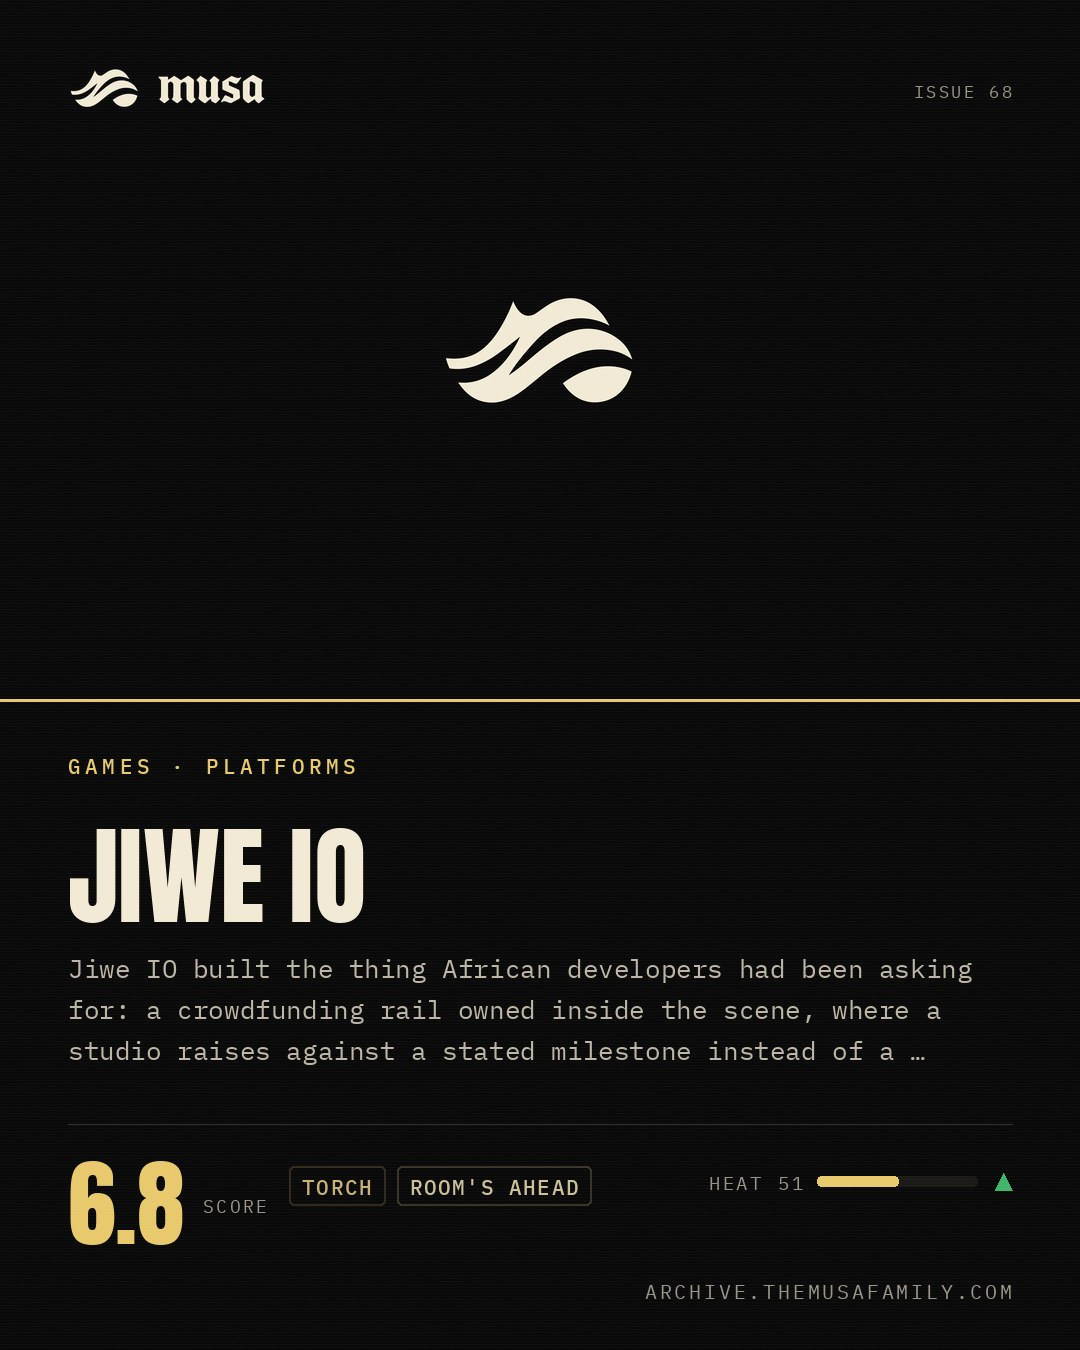
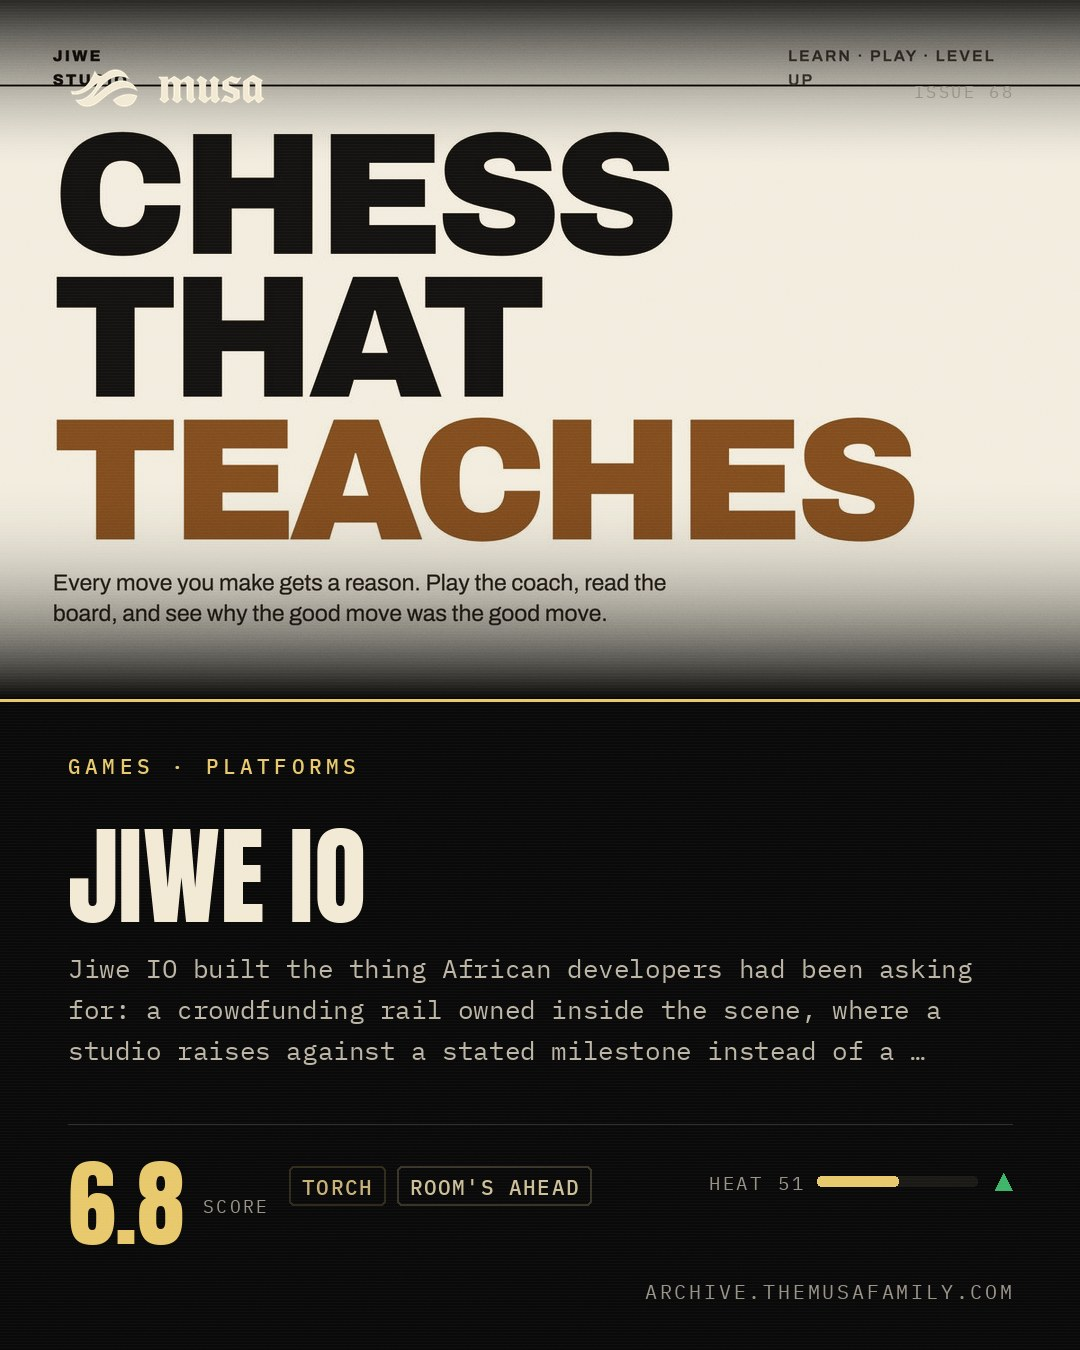
Cache entry art and rebuild cards [auto]

diff --git a/i/elucid-i-guess-u-had-to-be-there/index.html b/i/elucid-i-guess-u-had-to-be-there/index.html
@@ -131,7 +131,7 @@ footer b{font-family:var(--mono);font-size:9px;color:#b8b09c;letter-spacing:.2em
 </header>
 <div class="eyebrow">ISSUE 67 &nbsp;·&nbsp; <span class="a">AUG 26 2026</span> &nbsp;·&nbsp; MUSIC · UNDERGROUND RAP</div>
 <h1>ELUCID — I Guess U Had to Be There</h1>
-<figure class="art"><img src="https://archive.themusafamily.com/img/musa-mark.png" alt="ELUCID — I Guess U Had to Be There" loading="lazy" style="height:320px;object-fit:contain;background:#0a0a0a" onerror="this.onerror=null;this.src='https://archive.themusafamily.com/img/musa-mark.png';this.style.objectFit='contain';this.style.background='#0a0a0a'"></figure>
+<figure class="art"><img src="https://cdn.shopify.com/s/files/1/2276/3279/files/Elucid_AlexanderRichter_Sept4th_21_1000x1000-495x495_large.jpg?v=1502912025" alt="ELUCID — I Guess U Had to Be There" loading="lazy" onerror="this.onerror=null;this.src='https://archive.themusafamily.com/img/musa-mark.png';this.style.objectFit='contain';this.style.background='#0a0a0a'"></figure>
 <div class="read">The lead single is the argument. &quot;First Light&quot; is handclaps and almost no instrumentation, which leaves nothing between the listener and the voice — a subtraction most rappers cannot survive. The album runs thirty-two minutes, produced entirely by the Swiss beatmaker Sebb Bash, and came out March 13 on Backwoodz Studioz with Mattie, Estee Nack, Shabaka Hutchings, billy woods and Breeze Brewin passing through. It scored 80 on Metacritic and a nine from Clash. ELUCID was born in Queens, raised on Long Island, and has spent a decade as half of Armand Hammer alongside woods; the deluxe vinyl carries the 48 Hrs EP as a second disc. He toured solo in spring and is out with Armand Hammer this fall. Backwoodz remains the model here — an artist-run label pressing its own vinyl, which is why the catalog holds its value while the co-sign economy churns.</div>
 <div class="rail">
   <span class="sc">8.3<small>SCORE</small></span>

diff --git a/i/deana-lawson/index.html b/i/deana-lawson/index.html
@@ -131,7 +131,7 @@ footer b{font-family:var(--mono);font-size:9px;color:#b8b09c;letter-spacing:.2em
 </header>
 <div class="eyebrow">ISSUE 67 &nbsp;·&nbsp; <span class="a">AUG 26 2026</span> &nbsp;·&nbsp; ART · PHOTOGRAPHY</div>
 <h1>Deana Lawson</h1>
-<figure class="art"><img src="https://archive.themusafamily.com/img/musa-mark.png" alt="Deana Lawson" loading="lazy" style="height:320px;object-fit:contain;background:#0a0a0a" onerror="this.onerror=null;this.src='https://archive.themusafamily.com/img/musa-mark.png';this.style.objectFit='contain';this.style.background='#0a0a0a'"></figure>
+<figure class="art"><img src="https://gagosian.com/media/images/artists/deana-lawson/hOcFfIapj00P_1200x1200.jpg" alt="Deana Lawson" loading="lazy" onerror="this.onerror=null;this.src='https://archive.themusafamily.com/img/musa-mark.png';this.style.objectFit='contain';this.style.background='#0a0a0a'"></figure>
 <div class="read">Lawson casts strangers. She finds them on the train, at a restaurant, at a garage sale, then builds the room around them — decor, lighting, pose all constructed, the resulting picture somewhere between a family album and a staged tableau. It is the least extractive method in a genre built on extraction, because the subject is a collaborator with a say in the frame. Born in Rochester in 1979, she was turned down by Parsons for fashion design and went to Penn State for photography instead; her adviser at RISD was Sarah Charlesworth. She took the Hugo Boss Prize in 2020, the first photographer ever to win it, and the Deutsche Börse in 2022. The survey ran ICA Boston to MoMA PS1 to the High, and the Bourse de Commerce showed her in Paris in 2025. She lives between Los Angeles and Brooklyn and teaches photography at Princeton. The room has fully caught up here — the collections are set, the prizes are in — which is why this is a confirmation and not a find.</div>
 <div class="rail">
   <span class="sc">8.8<small>SCORE</small></span>

diff --git a/i/venus-x/index.html b/i/venus-x/index.html
@@ -131,7 +131,7 @@ footer b{font-family:var(--mono);font-size:9px;color:#b8b09c;letter-spacing:.2em
 </header>
 <div class="eyebrow">ISSUE 67 &nbsp;·&nbsp; <span class="a">AUG 26 2026</span> &nbsp;·&nbsp; SCENE · NIGHTLIFE</div>
 <h1>Venus X</h1>
-<figure class="art"><img src="https://archive.themusafamily.com/img/musa-mark.png" alt="Venus X" loading="lazy" style="height:320px;object-fit:contain;background:#0a0a0a" onerror="this.onerror=null;this.src='https://archive.themusafamily.com/img/musa-mark.png';this.style.objectFit='contain';this.style.background='#0a0a0a'"></figure>
+<figure class="art"><img src="https://imgix.bustle.com/wmag/2017/10/03/59d3beecfcc4d7466f34c1d4_VenusX.jpg?w=1200&amp;h=630&amp;fit=crop&amp;crop=faces&amp;fm=jpg" alt="Venus X" loading="lazy" onerror="this.onerror=null;this.src='https://archive.themusafamily.com/img/musa-mark.png';this.style.objectFit='contain';this.style.background='#0a0a0a'"></figure>
 <div class="read">Jazmin Venus Soto built GHE20G0TH1K on a ten dollar cover and a music policy that cut between dark wave, Chicago footwork, remixed Dirty South rap and girl-group records inside the same hour. The party ran out of a former banquet hall in Greenpoint and the door price was the thesis: a room for marginalized voices that those voices could actually afford to enter. What makes her worth the slot in 2026 is the second act — she curates Warm Up at MoMA PS1, which means the person who made the underground is now the person allocating institutional stage time, and she has kept those two jobs from contradicting each other. Her own description of the network is the useful part: not geographic, a floating thing held together over WhatsApp and SoundCloud, people in different cities playing each other&#x27;s records and knowing the other exists. That is the structure most scenes now copy without crediting.</div>
 <div class="rail">
   <span class="sc">8.5<small>SCORE</small></span>

diff --git a/i/jiwe-io/index.html b/i/jiwe-io/index.html
@@ -131,7 +131,7 @@ footer b{font-family:var(--mono);font-size:9px;color:#b8b09c;letter-spacing:.2em
 </header>
 <div class="eyebrow">ISSUE 68 &nbsp;·&nbsp; <span class="a">AUG 28 2026</span> &nbsp;·&nbsp; GAMES · PLATFORMS</div>
 <h1>Jiwe IO</h1>
-<figure class="art"><img src="https://archive.themusafamily.com/img/musa-mark.png" alt="Jiwe IO" loading="lazy" style="height:320px;object-fit:contain;background:#0a0a0a" onerror="this.onerror=null;this.src='https://archive.themusafamily.com/img/musa-mark.png';this.style.objectFit='contain';this.style.background='#0a0a0a'"></figure>
+<figure class="art"><img src="https://jiwegamestorage.blob.core.windows.net/game-artwork/Jiwe-Chess/Game%20Poster-selection.png" alt="Jiwe IO" loading="lazy" onerror="this.onerror=null;this.src='https://archive.themusafamily.com/img/musa-mark.png';this.style.objectFit='contain';this.style.background='#0a0a0a'"></figure>
 <div class="read">Jiwe IO built the thing African developers had been asking for: a crowdfunding rail owned inside the scene, where a studio raises against a stated milestone instead of a vibe. Its first live campaign was Zawadi Games&#x27; Ma3 Simulator, a Nairobi matatu driving game, raising for two more buses and ten more routes. That specificity is the good part and it is rare. The timing is the problem, and it is not Jiwe&#x27;s fault. Google Play&#x27;s $1m Indie Games Fund for Africa closed applications on July 31. Supercell&#x27;s first Developer Grants cohort closed on August 9, offering $20,000 to $200,000 equity-free with money landing in December. The capital, the platforms and the conference calendar have all arrived ahead of the shipped catalog they exist to fund. Come back in December, when Supercell names its three to five studios, and count what is actually on the shelf.</div>
 <div class="rail">
   <span class="sc">6.8<small>SCORE</small></span>

diff --git a/i/fonts-xyz/index.html b/i/fonts-xyz/index.html
@@ -131,7 +131,7 @@ footer b{font-family:var(--mono);font-size:9px;color:#b8b09c;letter-spacing:.2em
 </header>
 <div class="eyebrow">ISSUE 67 &nbsp;·&nbsp; <span class="a">AUG 26 2026</span> &nbsp;·&nbsp; DESIGN · TYPE</div>
 <h1>fonts.xyz</h1>
-<figure class="art"><img src="https://archive.themusafamily.com/img/musa-mark.png" alt="fonts.xyz" loading="lazy" style="height:320px;object-fit:contain;background:#0a0a0a" onerror="this.onerror=null;this.src='https://archive.themusafamily.com/img/musa-mark.png';this.style.objectFit='contain';this.style.background='#0a0a0a'"></figure>
+<figure class="art"><img src="https://media.creativeboom.com/f9751722-29fe-4948-aa8c-01e806b44862/conversions/cc6e0e88d36e372b1fae868aff3cd0e05d600ff3-medium.webp" alt="fonts.xyz" loading="lazy" onerror="this.onerror=null;this.src='https://archive.themusafamily.com/img/musa-mark.png';this.style.objectFit='contain';this.style.background='#0a0a0a'"></figure>
 <div class="read">NaN, the foundry behind custom type for Deezer, Wise and Channel 4, launched fonts.xyz as a platform for independent foundries with terms that read like a position paper: an eighty percent royalty cut to the designer, one all-inclusive license instead of the usual tiered maze, an eighty percent student discount, and a one percent solidarity tax. Font retail has been a platform monopoly for years and the standard royalty split is the reason most independent type designers cannot live on type. Setting the number at eighty is the entire argument. The counter-read is that the room is loud about this right now and the model is unproven at scale — a generous split only matters if the catalog gets deep enough to earn from. Worth watching whether the foundries actually move, not whether designers say they should.</div>
 <div class="rail">
   <span class="sc">7.5<small>SCORE</small></span>

diff --git a/i/sonduke/index.html b/i/sonduke/index.html
@@ -131,7 +131,7 @@ footer b{font-family:var(--mono);font-size:9px;color:#b8b09c;letter-spacing:.2em
 </header>
 <div class="eyebrow">ISSUE 67 &nbsp;·&nbsp; <span class="a">AUG 26 2026</span> &nbsp;·&nbsp; EDITORIAL · INDEPENDENT PUBLISHING</div>
 <h1>Sonduke</h1>
-<figure class="art"><img src="https://archive.themusafamily.com/img/musa-mark.png" alt="Sonduke" loading="lazy" style="height:320px;object-fit:contain;background:#0a0a0a" onerror="this.onerror=null;this.src='https://archive.themusafamily.com/img/musa-mark.png';this.style.objectFit='contain';this.style.background='#0a0a0a'"></figure>
+<figure class="art"><img src="https://pronthego.com/assets/img/article/sonduke-magazine.webp" alt="Sonduke" loading="lazy" onerror="this.onerror=null;this.src='https://archive.themusafamily.com/img/musa-mark.png';this.style.objectFit='contain';this.style.background='#0a0a0a'"></figure>
 <div class="read">Founded in Kuwait in 2021 by Hamad Al Mujeem and Malak Al Suwaihel, Sonduke is an independent magazine and digital platform covering experimental art, sound and culture out of the Gulf and the wider SWANA region. The reason it matters is custody. Gulf experimental music has spent two decades being described by people flying in for a biennial, and Sonduke is the version where the documentation is done by people who live inside the scene and will still be there when the fair leaves town. Sound is treated as a primary subject rather than a lifestyle column, which is rare in art publishing anywhere. Low heat outside its region is the whole opportunity: this is the reference the next wave of Gulf writing gets built on top of, and almost nobody outside has opened it yet.</div>
 <div class="rail">
   <span class="sc">7.9<small>SCORE</small></span>
